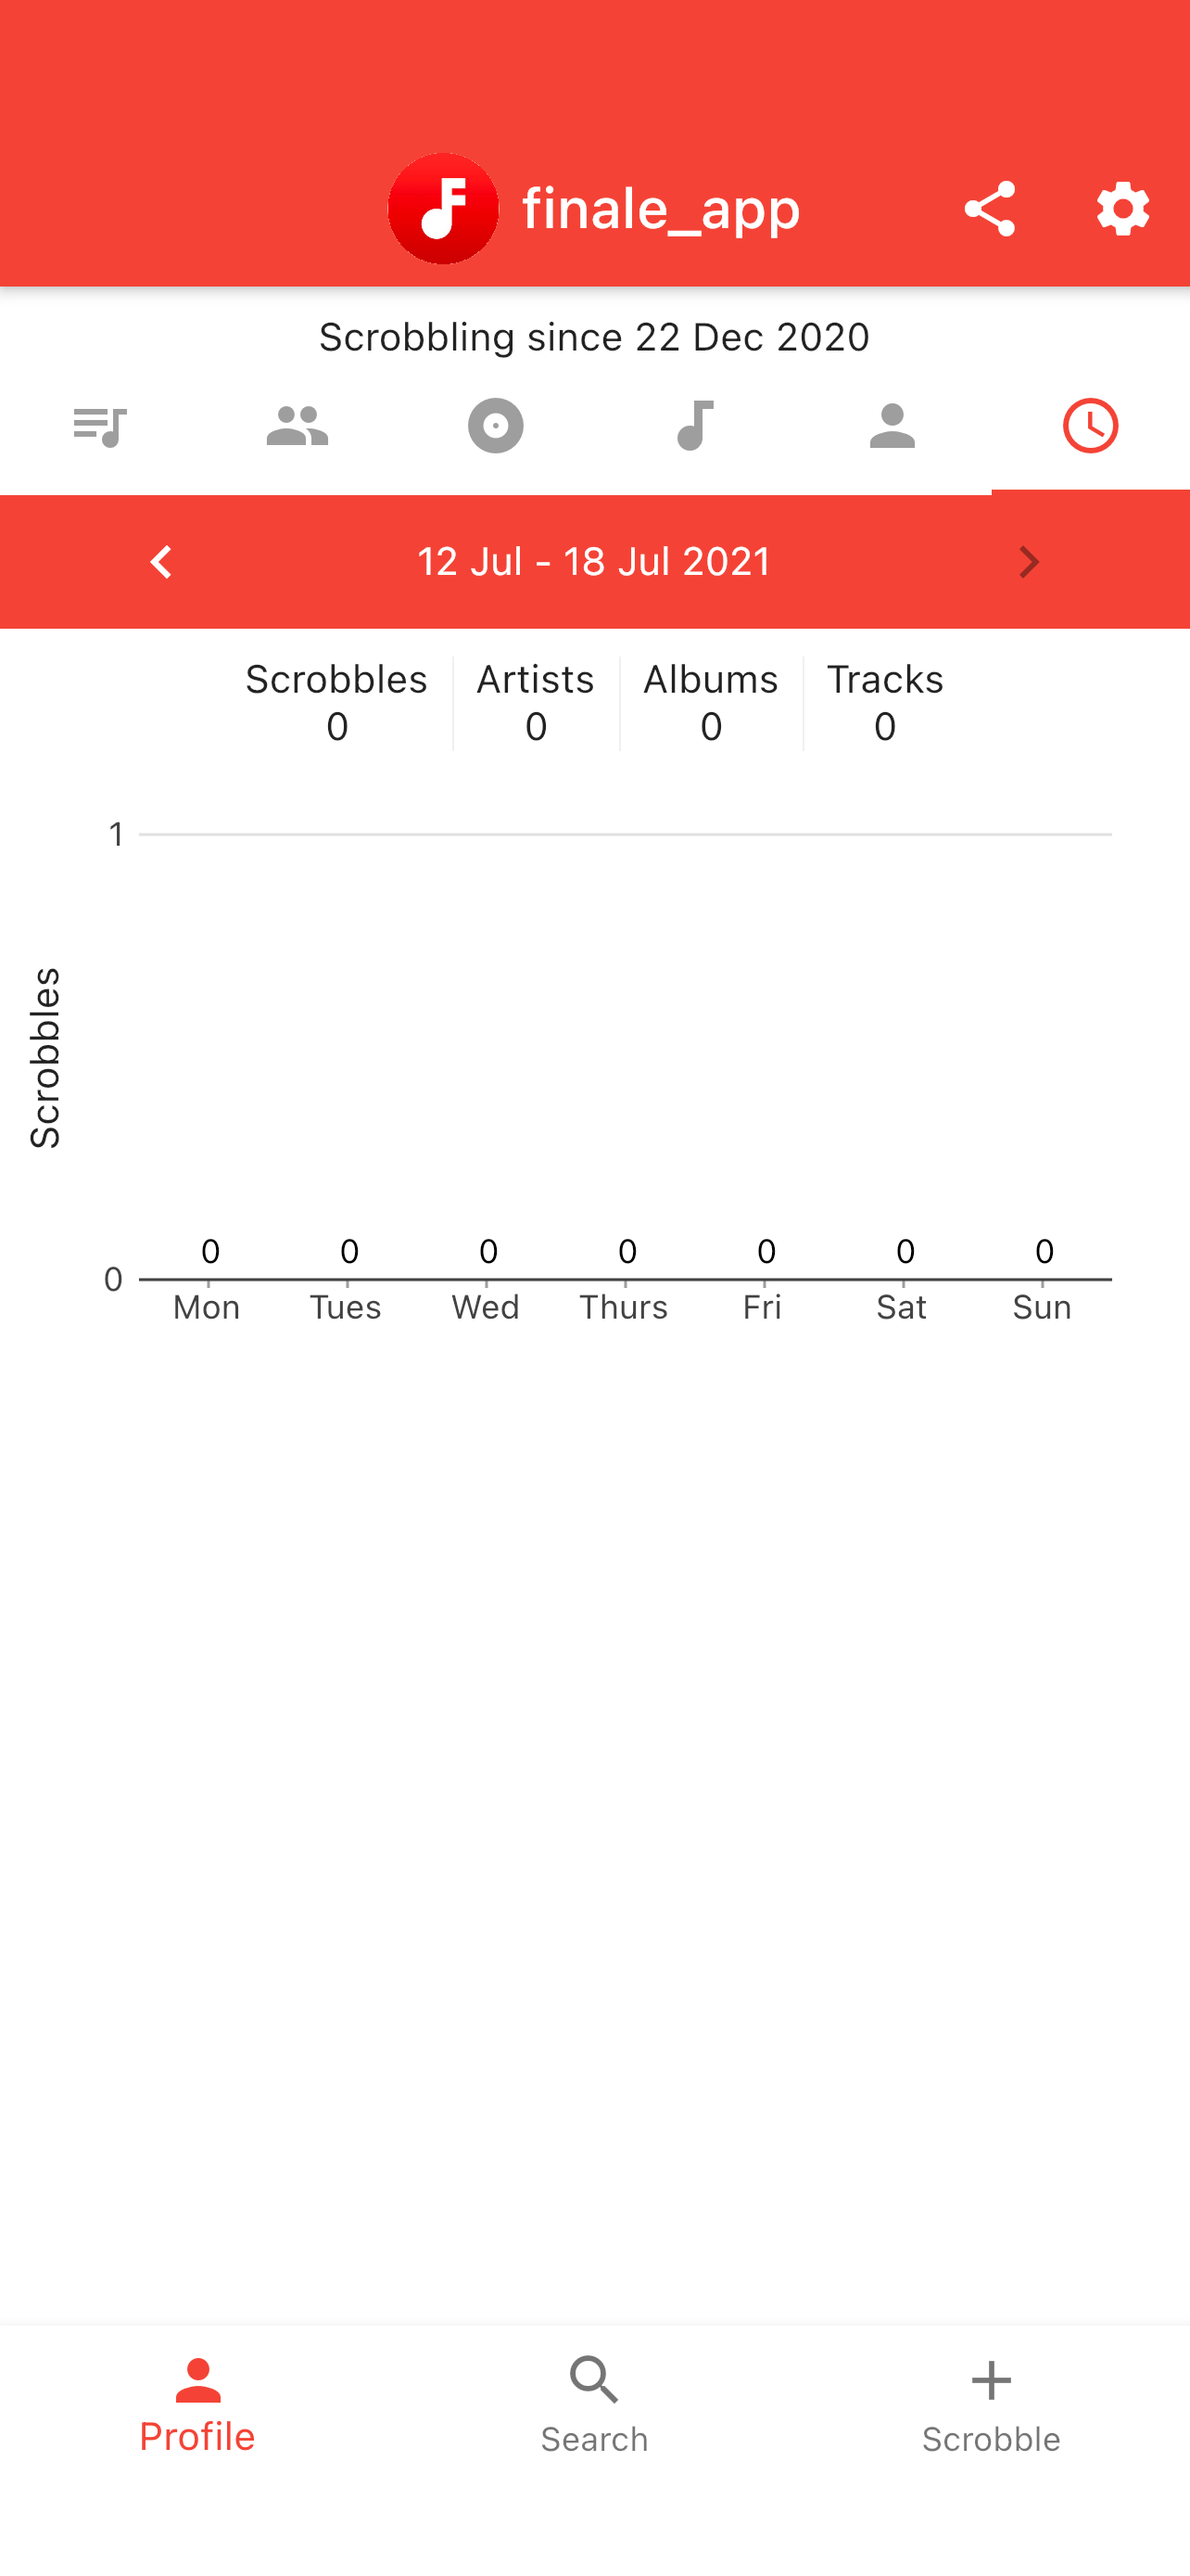
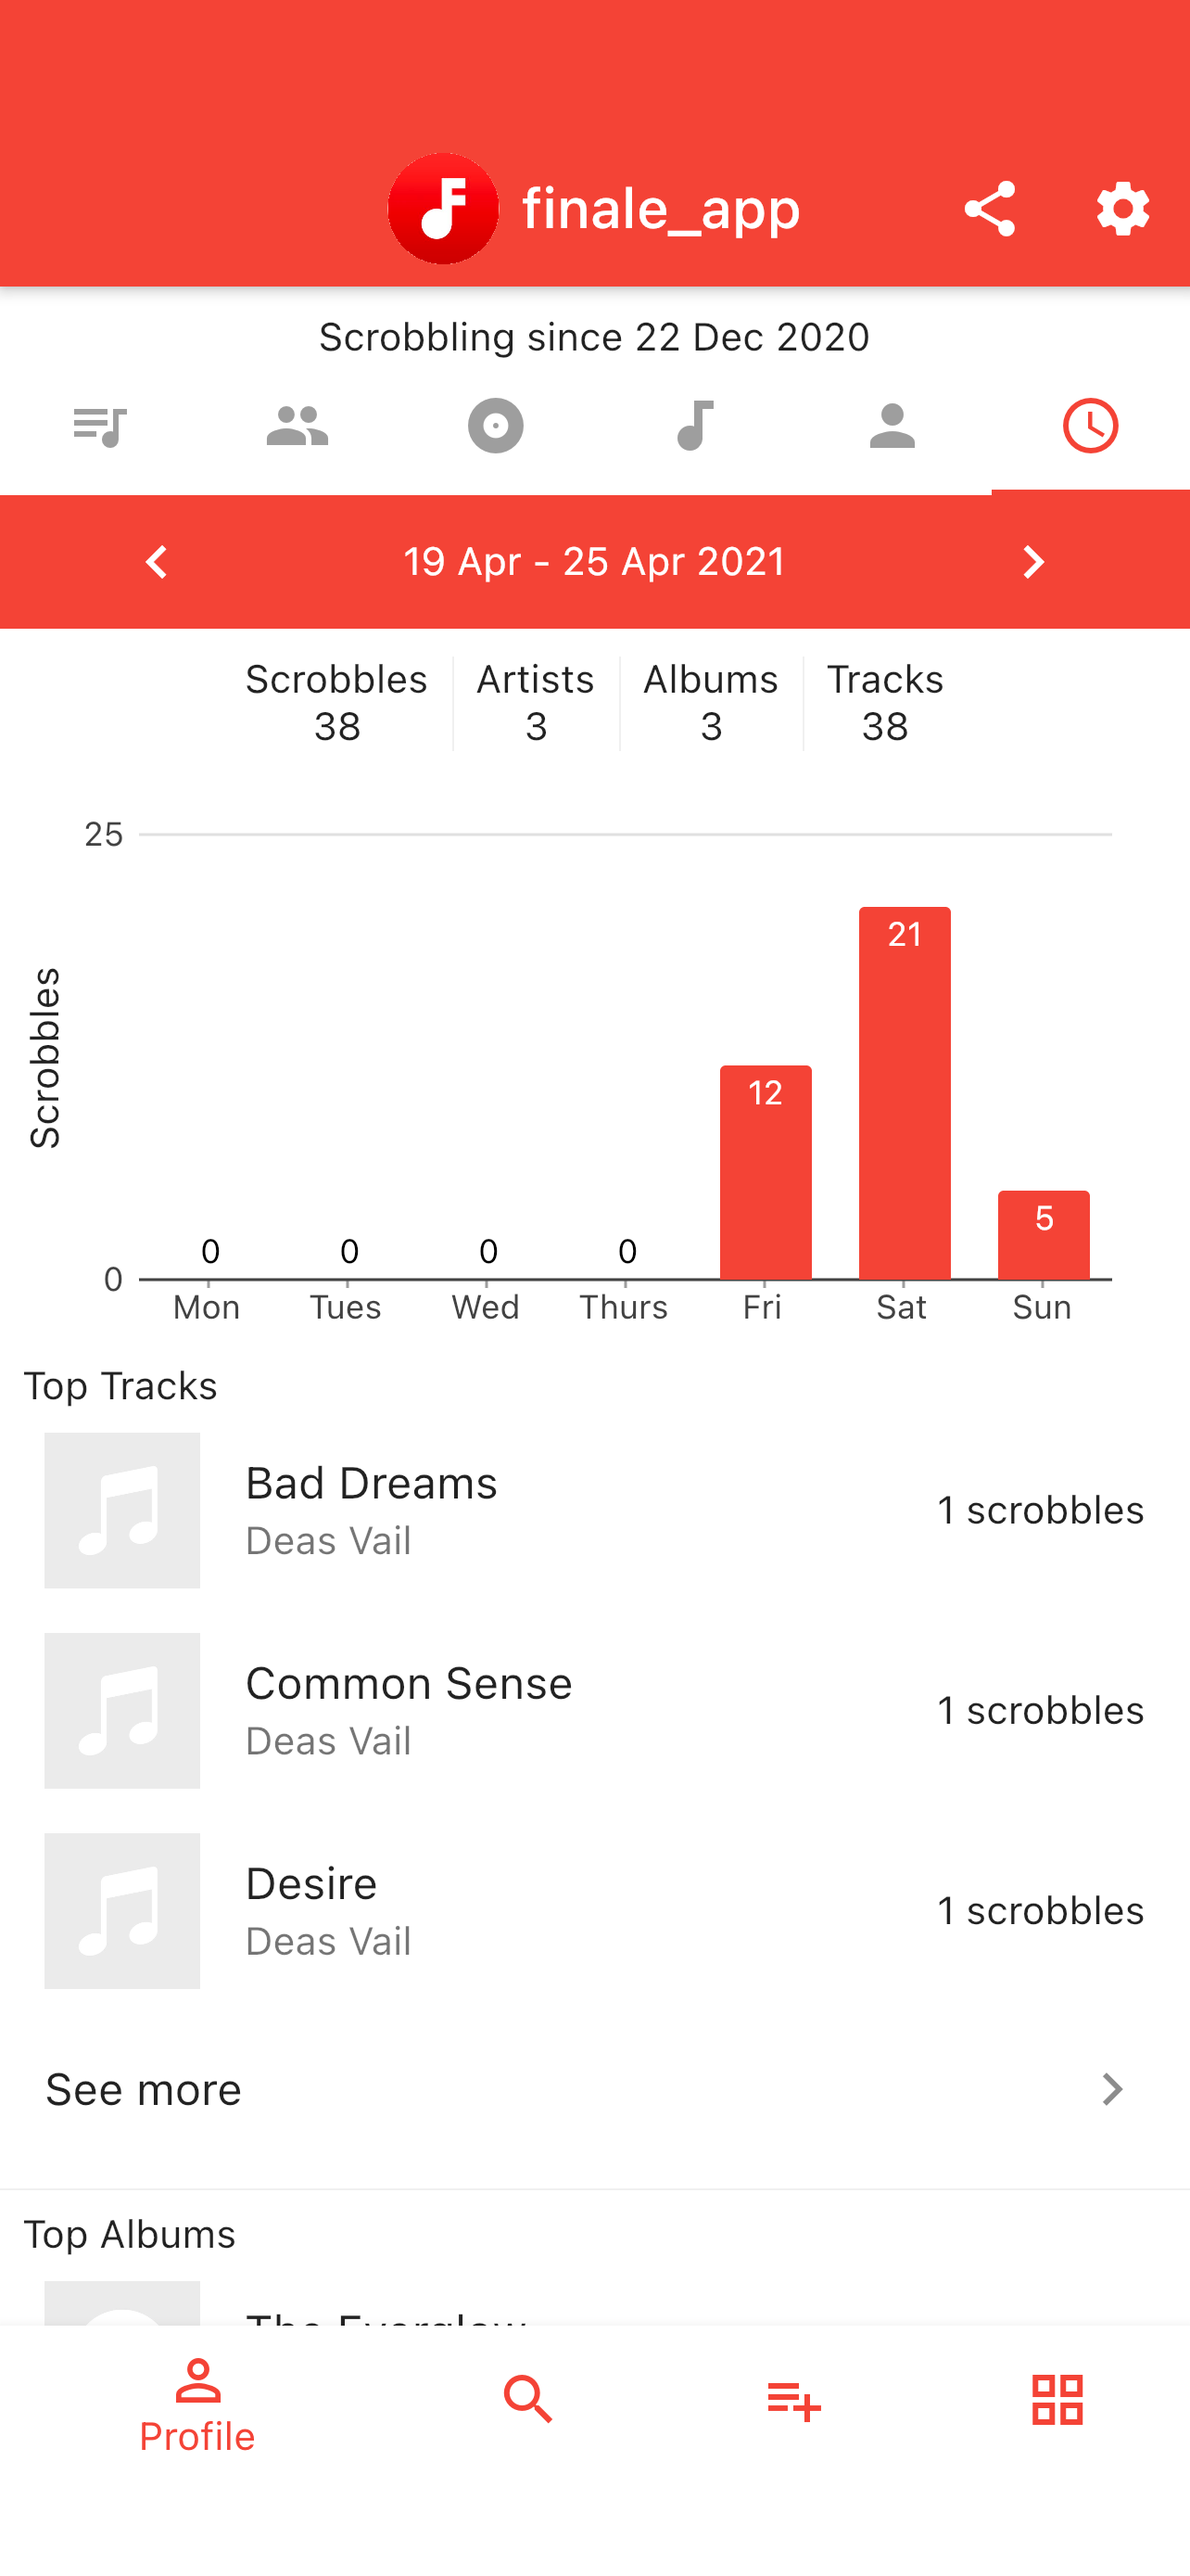
Fixed all of the missing images in the screenshot test expect for the weekly chart view

diff --git a/integration_test/screenshot_test.dart b/integration_test/screenshot_test.dart
@@ -3,6 +3,9 @@ import 'dart:io';
 
 import 'package:finale/env.dart';
 import 'package:finale/services/generic.dart';
+import 'package:finale/services/image_id.dart';
+import 'package:finale/services/lastfm/lastfm.dart';
+import 'package:finale/services/lastfm/user.dart';
 import 'package:finale/util/image_id_cache.dart';
 import 'package:finale/util/preferences.dart';
 import 'package:finale/util/theme.dart';
@@ -12,9 +15,9 @@ import 'package:finale/views/artist_view.dart';
 import 'package:finale/views/main_view.dart';
 import 'package:finale/views/scrobble_album_view.dart';
 import 'package:finale/views/track_view.dart';
-import 'package:flutter/foundation.dart';
 import 'package:flutter/material.dart';
 import 'package:flutter/rendering.dart' show OffsetLayer;
+import 'package:flutter_cache_manager/flutter_cache_manager.dart';
 import 'package:flutter_test/flutter_test.dart';
 import 'package:modal_bottom_sheet/modal_bottom_sheet.dart';
 import 'package:shared_preferences/shared_preferences.dart';
@@ -97,48 +100,98 @@ Future<void> main() async {
   });
 
   testWidgets('Weekly track screen', (tester) async {
+    // Cache the images that will be displayed on this screen.
+    // TODO: This may or may not be helpful. The real issue is that the weekly
+    //  chart entities use [ImageId.scrape].
+    final user =
+        LUser(testName, null, '', null, 0, LUserRegistered(DateTime.now()));
+    final chart = LUserWeeklyChart('1618747200', '1619352000');
+
+    final data = await Future.wait([
+      Lastfm.getWeeklyTrackChart(user, chart),
+      Lastfm.getWeeklyAlbumChart(user, chart),
+      Lastfm.getWeeklyArtistChart(user, chart),
+    ]);
+
+    final imageIds = [
+      ...await Future.wait(
+          (data[0] as LUserWeeklyTrackChart).tracks.map((e) => e.imageId)),
+      ...await Future.wait(
+          (data[1] as LUserWeeklyAlbumChart).albums.map((e) => e.imageId)),
+      ...await Future.wait(
+          (data[2] as LUserWeeklyArtistChart).artists.map((e) => e.imageId))
+    ];
+
+    await Future.wait(imageIds.map((imageId) => DefaultCacheManager()
+        .downloadFile(imageId!.getUrl(ImageQuality.high))));
+
     await pumpWidget(tester, MainView(username: testName));
     await tester.tap(find.byIcon(Icons.access_time));
     await tester.pumpAndSettle();
+
+    var foundWeek = false;
+
+    do {
+      foundWeek = find.text('19 Apr - 25 Apr 2021').evaluate().isNotEmpty;
+
+      if (!foundWeek) {
+        await tester.tap(find.byIcon(Icons.chevron_left));
+        await tester.pumpAndSettle();
+      }
+    } while (!foundWeek);
+
+    await tester.settleLong();
     await saveScreenshot('3_weekly_track');
   });
 
   testWidgets('Track screen', (tester) async {
-    await pumpWidget(
-      tester,
-      TrackView(
-          track: BasicConcreteTrack(
-              'A Lack of Color', 'Death Cab for Cutie', 'Transatlanticism')),
-      asPage: true,
-    );
+    final track = await Lastfm.getTrack(BasicConcreteTrack(
+        'A Lack of Color', 'Death Cab for Cutie', 'Transatlanticism'));
+
+    // Cache the album image as well.
+    final album = await Lastfm.getAlbum(track.album!);
+    await DefaultCacheManager()
+        .downloadFile(album.imageId!.getUrl(ImageQuality.high));
+
+    // Cache the artist image as well.
+    final artist = await Lastfm.getArtist(track.artist!);
+    await artist.tryCacheImageId();
+    track.artist!.cachedImageId = artist.cachedImageId;
+    await DefaultCacheManager()
+        .downloadFile(artist.cachedImageId!.getUrl(ImageQuality.high));
+
+    await pumpWidget(tester, TrackView(track: track), asPage: true);
     await saveScreenshot('4_track');
   });
 
   testWidgets('Artist screen', (tester) async {
-    await pumpWidget(
-      tester,
-      ArtistView(artist: ConcreteBasicArtist('Mae')),
-      asPage: true,
-    );
+    final artist = await Lastfm.getArtist(ConcreteBasicArtist('Mae'));
+    await artist.tryCacheImageId();
+
+    await pumpWidget(tester, ArtistView(artist: artist), asPage: true);
     await saveScreenshot('5_artist');
   });
 
   testWidgets('Album screen', (tester) async {
-    await pumpWidget(
-      tester,
-      AlbumView(album: FullConcreteAlbum('Deas Vail', 'Deas Vail')),
-      asPage: true,
-    );
+    final album =
+        await Lastfm.getAlbum(FullConcreteAlbum('Deas Vail', 'Deas Vail'));
+
+    // Cache the artist image as well.
+    final artist = await Lastfm.getArtist(album.artist);
+    await artist.tryCacheImageId();
+    album.artist.cachedImageId = artist.cachedImageId;
+
+    await pumpWidget(tester, AlbumView(album: album), asPage: true);
     await saveScreenshot('6_album');
   });
 
   testWidgets('Album scrobble screen', (tester) async {
-    await pumpWidget(
-      tester,
-      ScrobbleAlbumView(album: FullConcreteAlbum('Deas Vail', 'Deas Vail')),
-      widgetBehindModal:
-          AlbumView(album: FullConcreteAlbum('Deas Vail', 'Deas Vail')),
-    );
+    final album =
+        await Lastfm.getAlbum(FullConcreteAlbum('Deas Vail', 'Deas Vail'));
+    await album.tryCacheImageId();
+
+    await pumpWidget(tester, ScrobbleAlbumView(album: album),
+        widgetBehindModal: AlbumView(album: album));
     await saveScreenshot('7_album_scrobble');
   });
 }
@@ -158,7 +211,7 @@ class _AsPageState extends State<_AsPage> {
   void initState() {
     super.initState();
 
-    Future.delayed(const Duration(milliseconds: 500), () async {
+    Future.delayed(const Duration(milliseconds: 100), () async {
       if (widget.widgetBehindModal != null) {
         await showBarModalBottomSheet(
             context: context,
@@ -177,10 +230,10 @@ class _AsPageState extends State<_AsPage> {
 
 extension on WidgetTester {
   Future<void> settleLong() async {
-    await runAsync(() => Future.delayed(const Duration(seconds: 30)));
+    await runAsync(() => Future.delayed(const Duration(seconds: 5)));
     try {
       await pumpAndSettle(const Duration(milliseconds: 100),
-          EnginePhase.sendSemanticsUpdate, const Duration(seconds: 30));
+          EnginePhase.sendSemanticsUpdate, const Duration(seconds: 5));
     } on FlutterError {
       // [pumpAndSettle] might time out, but that's fine.
     }

diff --git a/lib/views/track_view.dart b/lib/views/track_view.dart
@@ -34,7 +34,9 @@ class _TrackViewState extends State<TrackView> {
   @override
   Widget build(BuildContext context) {
     return FutureBuilder<LTrack>(
-      future: Lastfm.getTrack(widget.track),
+      future: widget.track is LTrack
+          ? Future.value(widget.track as LTrack)
+          : Lastfm.getTrack(widget.track),
       builder: (context, snapshot) {
         if (snapshot.hasError) {
           final isTrackNotFoundError = snapshot.error is LException &&

diff --git a/lib/views/artist_view.dart b/lib/views/artist_view.dart
@@ -39,7 +39,9 @@ class _ArtistViewState extends State<ArtistView>
   @override
   Widget build(BuildContext context) {
     return FutureBuilder<LArtist>(
-      future: Lastfm.getArtist(widget.artist),
+      future: widget.artist is LArtist
+          ? Future.value(widget.artist as LArtist)
+          : Lastfm.getArtist(widget.artist),
       builder: (context, snapshot) {
         if (snapshot.hasError) {
           return ErrorView(

diff --git a/lib/views/album_view.dart b/lib/views/album_view.dart
@@ -27,7 +27,9 @@ class AlbumView extends StatelessWidget {
   @override
   Widget build(BuildContext context) {
     return FutureBuilder<LAlbum>(
-      future: Lastfm.getAlbum(album),
+      future: album is LAlbum
+          ? Future.value(album as LAlbum)
+          : Lastfm.getAlbum(album),
       builder: (context, snapshot) {
         if (snapshot.hasError) {
           return ErrorView(
